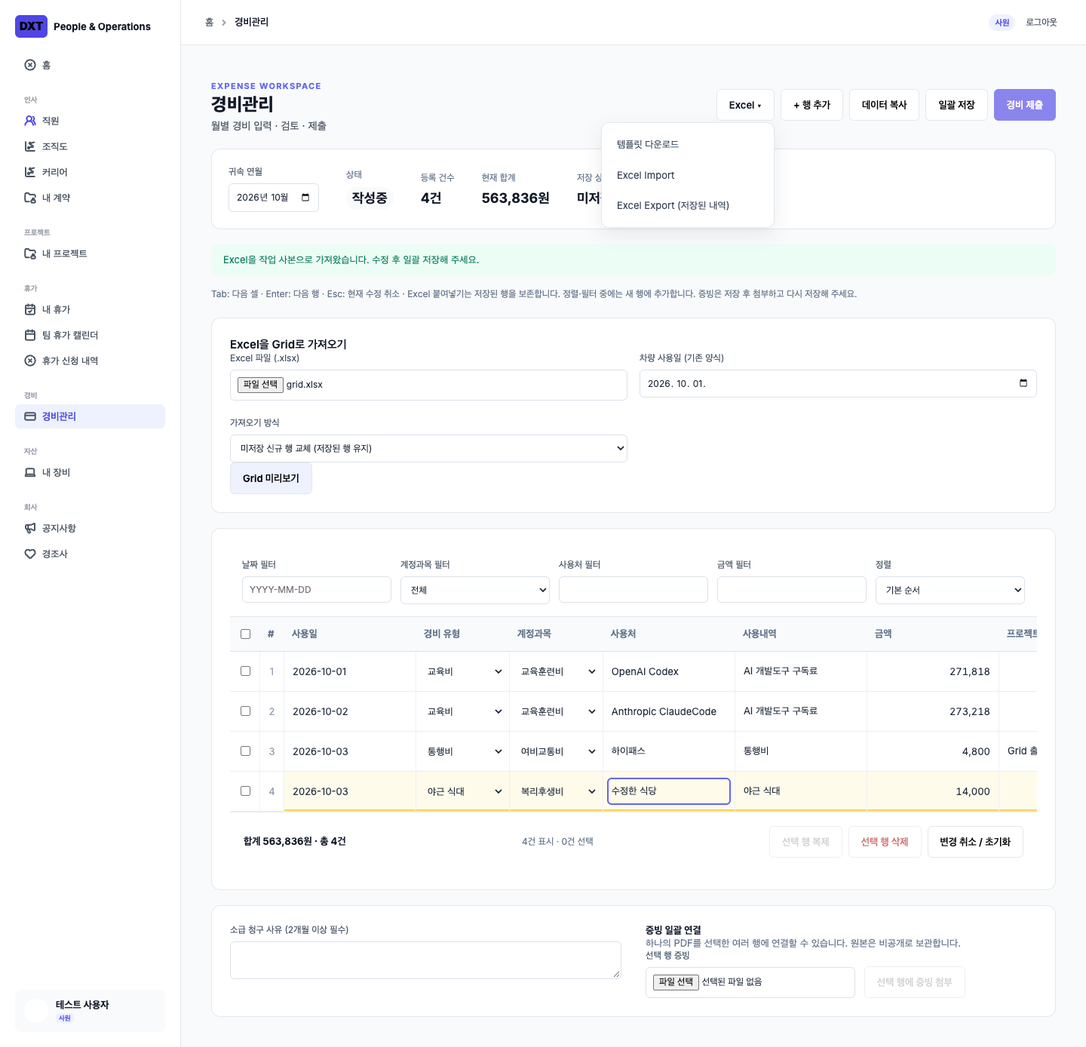
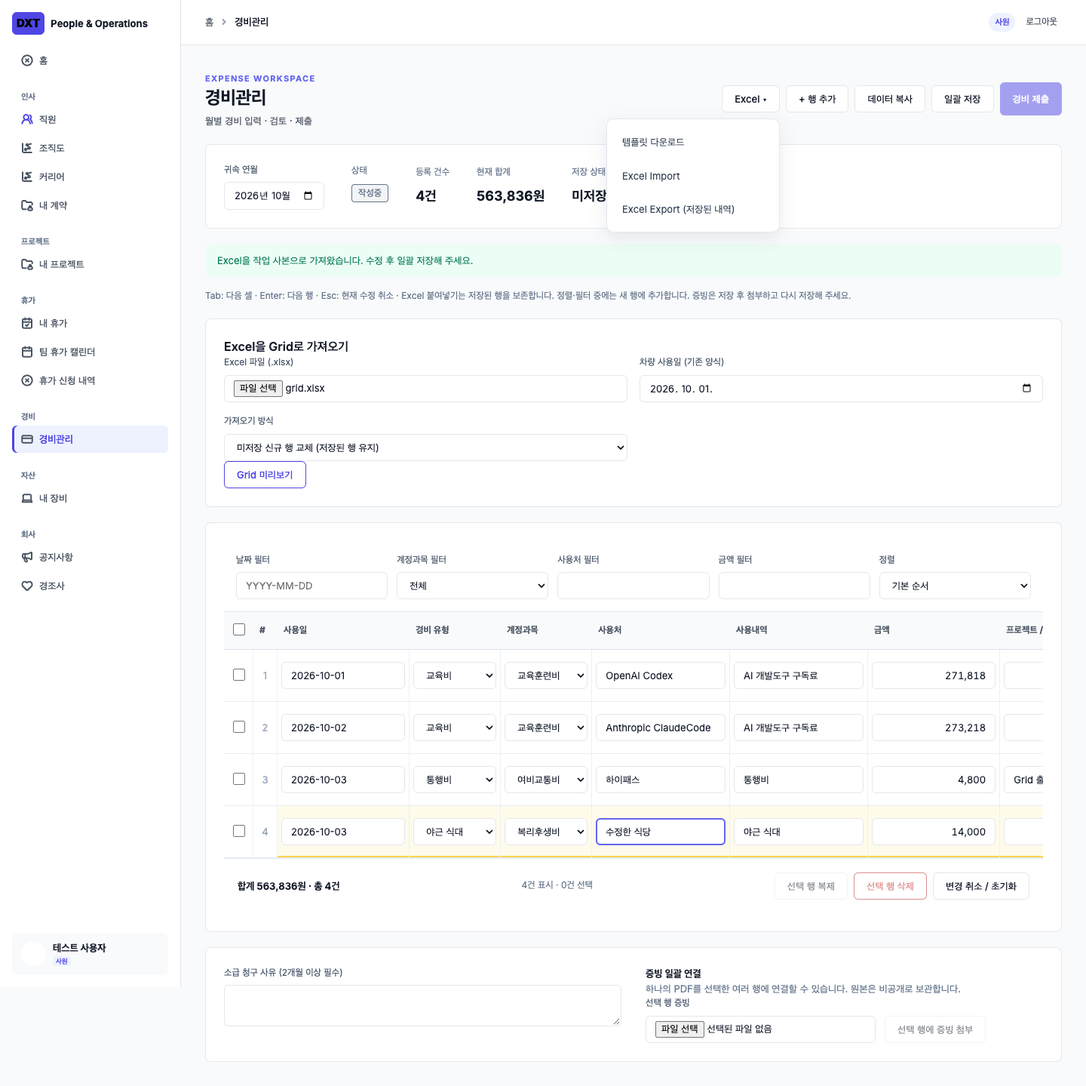
Restore submitted expense editing until payment lock

diff --git a/src/components/expenses/grid.tsx b/src/components/expenses/grid.tsx
@@ -1,4 +1,5 @@
 'use client';
+import { StatusTag } from '@/components/ui/primitives';
 import { useRouter } from 'next/navigation';
 import { memo, useCallback, useEffect, useMemo, useRef, useState } from 'react';
 import { saveExpenseGrid, previewExpenseGrid, uploadGridReceipt, submitExpenseGrid } from '@/app/actions/expenses';
@@ -45,11 +46,12 @@ export function ExpenseGrid({month,initialClaim,initialItems,initialAttachments,
  const errors=[...problems.values()].flat().filter(p=>p.severity==='ERROR');
  const accept=(d:{claim:Claim;items:ItemInput[];attachments:Attachment[]})=>{const order=new Map(rows.map((r,n)=>[r.id,n]));const saved=d.items.map(cleanItem).sort((a,b)=>(order.get(a.id)??rows.length)-(order.get(b.id)??rows.length));setClaim(d.claim);setRows(saved);setBaseline(saved);setAttachments(d.attachments);setReason(d.claim.late_reason);setSelected([]);};
  async function save(){setBusy(true);setError('');try{const result=await saveExpenseGrid(JSON.stringify({claimId:claim?.id||null,month,version:claim?.version||0,items:rows,deleted:baseline.filter(r=>!rows.some(x=>x.id===r.id)).map(({id,version})=>({id,version})),reason}));if('detail'in result&&result.detail){accept(result.detail);setMessage('저장 완료');}else setError(('error'in result?result.error:undefined)||'저장하지 못했습니다.');}finally{setBusy(false);}}
- async function submit(){setBusy(true);setError('');try{const result=await submitExpenseGrid(claim!.id,claim!.version,reason);if('detail'in result&&result.detail){accept(result.detail);setMessage('제출 완료 · 읽기 전용');setConfirmSubmit(false);}else setError(('error'in result?result.error:undefined)||'제출하지 못했습니다.');}finally{setBusy(false);}}
+ async function submit(){setBusy(true);setError('');try{const result=await submitExpenseGrid(claim!.id,claim!.version,reason);if('detail'in result&&result.detail){accept(result.detail);setMessage('제출 완료 · 지급/잠금 전까지 수정 가능');setConfirmSubmit(false);}else setError(('error'in result?result.error:undefined)||'제출하지 못했습니다.');}finally{setBusy(false);}}
  async function upload(form:HTMLFormElement,ids:string[]){if(!claim)return;setBusy(true);setError('');try{const result=await uploadGridReceipt(claim.id,new FormData(form));if('id'in result&&result.id){setRows(prev=>prev.map(r=>ids.includes(r.id)?{...r,attachment_id:result.id}:r));setAttachments(prev=>[...prev,{id:result.id,claim_id:claim.id,filename:result.filename,mime_type:'',byte_size:0,ready:true,storage_path:''}]);setMessage('증빙을 연결했습니다. 일괄 저장해 주세요.');}else setError(('error'in result?result.error:undefined)||'업로드 실패');}finally{setBusy(false);}}
  return <div className="expense-workspace">
- <header className="page-heading heading-row"><div><p className="grid-eyebrow">EXPENSE WORKSPACE{employeeName?` · ${employeeName}`:''}</p><h1>{admin?'경비 검토':'경비관리'}</h1><p>월별 경비 입력 · 검토 · 제출</p></div><div className="grid-actions"><details><summary className="button">Excel ▾</summary><div className="grid-menu"><a href={`/api/expenses/template?month=${month}`}>템플릿 다운로드</a>{!readonly&&<button onClick={()=>setImportOpen(v=>!v)}>Excel Import</button>}<a href={claim?`/api/expenses/export?claim=${claim.id}${admin?'&admin=1':''}`:undefined} aria-disabled={!claim}>Excel Export (저장된 내역)</a></div></details>{!readonly&&<button className="button" disabled={busy||rows.length>=500} onClick={()=>setRows(prev=>[...prev,blankRow(month,crypto.randomUUID())])}>+ 행 추가</button>}<button className="button" onClick={async()=>{try{await navigator.clipboard.writeText(rows.filter(r=>!selected.length||selected.includes(r.id)).map(r=>GRID_COLUMNS.map(k=>String(k==='expense_type'?PURPOSES[r.expense_type]:r[k]||'').replace(/[\t\r\n]/g,' ')).join('\t')).join('\n'));setMessage('선택한 데이터를 복사했습니다.');}catch{setError('브라우저의 클립보드 권한을 확인해 주세요.');}}}>데이터 복사</button>{!readonly&&<><button className="button" disabled={busy||!dirty||errors.length>0} onClick={save}>{busy?'처리 중…':'일괄 저장'}</button><button className="button primary" disabled={busy||dirty||!claim||!rows.length||errors.length>0} onClick={()=>setConfirmSubmit(true)}>경비 제출</button></>}</div></header>
- <section className="surface grid-overview"><label>귀속 연월<input aria-label="귀속 연월" type="month" value={month} onChange={e=>{if(!dirty||window.confirm('미저장 변경을 버리고 귀속월을 변경할까요?'))router.push(`${admin?'/admin':''}/expenses?month=${e.target.value}`);}}/></label><div><span>상태</span><strong className="expense-badge">{claim?STATUS[claim.status]:'작성 중'}{readonly?' · 읽기 전용':''}</strong></div><div><span>등록 건수</span><strong>{rows.length}건</strong></div><div><span>현재 합계</span><strong>{money(total)}원</strong></div><div><span>저장 상태</span><strong>{busy?'저장 중':dirty?'미저장 변경 있음':'저장 완료'}</strong></div></section>
+ <header className="page-heading heading-row"><div><p className="grid-eyebrow">EXPENSE WORKSPACE{employeeName?` · ${employeeName}`:''}</p><h1>{admin?'경비 검토':'경비관리'}</h1><p>월별 경비 입력 · 검토 · 제출</p></div><div className="grid-actions"><details><summary className="button">Excel ▾</summary><div className="grid-menu"><a href={`/api/expenses/template?month=${month}`}>템플릿 다운로드</a>{!readonly&&<button onClick={()=>setImportOpen(v=>!v)}>Excel Import</button>}<a href={claim?`/api/expenses/export?claim=${claim.id}${admin?'&admin=1':''}`:undefined} aria-disabled={!claim}>Excel Export (저장된 내역)</a></div></details>{!readonly&&<button className="button" disabled={busy||rows.length>=500} onClick={()=>setRows(prev=>[...prev,blankRow(month,crypto.randomUUID())])}>+ 행 추가</button>}<button className="button" onClick={async()=>{try{await navigator.clipboard.writeText(rows.filter(r=>!selected.length||selected.includes(r.id)).map(r=>GRID_COLUMNS.map(k=>String(k==='expense_type'?PURPOSES[r.expense_type]:r[k]||'').replace(/[\t\r\n]/g,' ')).join('\t')).join('\n'));setMessage('선택한 데이터를 복사했습니다.');}catch{setError('브라우저의 클립보드 권한을 확인해 주세요.');}}}>데이터 복사</button>{!readonly&&<><button className="button" disabled={busy||!dirty||errors.length>0} onClick={save}>{busy?'처리 중…':'일괄 저장'}</button>{claim?.status!=='SUBMITTED'&&<button className="button primary" disabled={busy||dirty||!claim||!rows.length||errors.length>0} onClick={()=>setConfirmSubmit(true)}>경비 제출</button>}</>}</div></header>
+ <section className="surface grid-overview"><label>귀속 연월<input aria-label="귀속 연월" type="month" value={month} onChange={e=>{if(!dirty||window.confirm('미저장 변경을 버리고 귀속월을 변경할까요?'))router.push(`${admin?'/admin':''}/expenses?month=${e.target.value}`);}}/></label><div><span>상태</span><StatusTag status={claim?.status}>{claim?STATUS[claim.status]:'작성 중'}{readonly?' · 읽기 전용':''}</StatusTag></div><div><span>등록 건수</span><strong>{rows.length}건</strong></div><div><span>현재 합계</span><strong>{money(total)}원</strong></div><div><span>저장 상태</span><strong>{busy?'저장 중':dirty?'미저장 변경 있음':'저장 완료'}</strong></div></section>
+ {claim?.status==='SUBMITTED'&&!readonly&&<p className="grid-help">제출한 경비입니다. 지급 예정일 {claim.payment_date?.slice(0,10)||'15일'}까지 수정할 수 있으며, 지급 처리·잠금 이후에는 수정할 수 없습니다. 변경 후 일괄 저장하면 제출 내역에 반영됩니다. 새 행도 증빙을 첨부한 뒤 저장해 주세요.</p>}
  {message&&<p className="success-banner" role="status">{message}</p>}{error&&<p role="alert" className="form-error">{error}</p>}
  {!readonly&&<p className="grid-help">Tab: 다음 셀 · Enter: 다음 행 · Esc: 현재 수정 취소 · Excel 붙여넣기는 저장된 행을 보존합니다. 정렬·필터 중에는 새 행에 추가합니다. 증빙은 저장 후 첨부하고 다시 저장해 주세요.</p>}
  {importOpen&&!readonly&&<form className="surface grid-import-panel" onSubmit={async e=>{e.preventDefault();const form=new FormData(e.currentTarget);setBusy(true);setError('');try{const result=await previewExpenseGrid(form);if(result.preview){setImportProblems(result.preview.problems.filter(p=>p.code==='SCHEMA'||p.code==='LEGACY_SUMMARY_IGNORED'));if(result.preview.problems.some(p=>p.code==='SCHEMA'&&p.severity==='ERROR')){setError('Excel 구조 오류를 수정한 뒤 다시 가져와 주세요.');return;}const next=importRows(rows,result.preview.items,form.get('mode')==='replace'?'replace':'append');if(next.length>500)throw new Error('최대 500행까지 입력할 수 있습니다.');setRows(next);setMessage('Excel을 작업 사본으로 가져왔습니다. 수정 후 일괄 저장해 주세요.');}else setError(('error'in result?result.error:undefined)||'가져오기 실패');}catch(err){setError((err as Error).message);}finally{setBusy(false);}}}><h2>Excel을 Grid로 가져오기</h2><input type="hidden" name="month" value={month}/><div className="field-grid"><label>Excel 파일 (.xlsx)<input name="workbook" type="file" accept=".xlsx" required/></label><label>차량 사용일 (기존 양식)<input name="vehicle_date" type="date" defaultValue={month+'-01'}/></label><label>가져오기 방식<select name="mode"><option value="append">기존 행에 추가</option><option value="replace">미저장 신규 행 교체 (저장된 행 유지)</option></select></label></div><button className="button" disabled={busy}>Grid 미리보기</button>{importProblems.map((p,i)=><p key={i} className={p.severity==='ERROR'?'form-error':'expense-warning'}>{p.origin} · {p.message}</p>)}</form>}
@@ -61,6 +63,6 @@ export function ExpenseGrid({month,initialClaim,initialItems,initialAttachments,
  {['FUEL','TOLL'].includes(detail.expense_type)&&<section className="expense-vehicle"><h3>차량 이동 상세</h3><div className="field-grid">{(['project_or_trip_name','origin','destination','one_way_amount','trip_count'] as const).map((key,i)=><label key={key}>{['프로젝트 / 출장명','출발지','도착지','편도 금액 (원)','횟수'][i]}<input type={i>2?'number':'text'} value={detail.vehicle?.[key]||''} onChange={e=>{const v={project_or_trip_name:detail.trip_context,origin:'',destination:'',one_way_amount:0,trip_count:1,...detail.vehicle,[key]:i>2?Number(e.target.value):e.target.value};onChange(detail.id,{vehicle:v,amount:v.one_way_amount*v.trip_count,legacy_summary:false,trip_context:v.project_or_trip_name});}}/></label>)}</div><strong>계산 금액 {money(detail.amount)}원</strong><p>편도금액 × 횟수 · 서버에서 다시 계산합니다.</p></section>}
  {detail.expense_type==='DINING'&&<section><h3>회식 참석자 / 월 한도 사용액</h3>{employees.map(e=>{const attendee=detail.attendees.find(a=>a.employee_id===e.id);return <div key={e.id} className="attendee-row"><label><input type="checkbox" checked={!!attendee} onChange={event=>onChange(detail.id,{attendees:event.target.checked?[...detail.attendees,{employee_id:e.id,allocated_amount:0}]:detail.attendees.filter(a=>a.employee_id!==e.id)})}/>{e.name} · {e.company_email}</label>{attendee&&<input aria-label={`${e.name} 한도 사용액`} type="number" min="1" max="30000" value={attendee.allocated_amount} onChange={event=>onChange(detail.id,{attendees:detail.attendees.map(a=>a.employee_id===e.id?{...a,allocated_amount:Number(event.target.value)}:a)})}/>}</div>;})}</section>}
  <label>비고<textarea value={detail.notes} maxLength={2000} onChange={e=>onChange(detail.id,{notes:e.target.value})}/></label></fieldset><div>{detail.attachment_id&&<a href={`/api/expenses/receipts/${detail.attachment_id}`}>{attachments.find(a=>a.id===detail.attachment_id)?.filename||'증빙'} 다운로드</a>}{!readonly&&<form onSubmit={e=>{e.preventDefault();void upload(e.currentTarget,[detail.id]);}}><label>영수증 / 증빙<input type="file" name="receipt" accept="application/pdf,image/png,image/jpeg" required disabled={!claim||busy}/></label><button className="button" disabled={!claim||busy}>이 행에 증빙 첨부</button></form>}</div></aside>}
- {confirmSubmit&&<section role="region" aria-label="경비 제출 확인" className="surface grid-confirm"><h2>월 경비를 제출할까요?</h2><p>{rows.length}건 · {money(total)}원. 제출 후에는 수정할 수 없습니다.</p>{[...claimProblems(month,reason),...[...problems.values()].flat()].map((p,i)=><p className="expense-warning" key={i}>{p.message}</p>)}<div className="grid-actions"><button className="button" disabled={busy} onClick={()=>setConfirmSubmit(false)}>돌아가기</button><button className="button primary" disabled={busy} onClick={submit}>확인 후 제출</button></div></section>}
+ {confirmSubmit&&<section role="region" aria-label="경비 제출 확인" className="surface grid-confirm"><h2>월 경비를 제출할까요?</h2><p>{rows.length}건 · {money(total)}원. 제출 후에도 지급일(15일)까지 수정할 수 있습니다. 지급 처리·잠금 또는 지급 기간 종료 후에는 읽기 전용입니다.</p>{[...claimProblems(month,reason),...[...problems.values()].flat()].map((p,i)=><p className="expense-warning" key={i}>{p.message}</p>)}<div className="grid-actions"><button className="button" disabled={busy} onClick={()=>setConfirmSubmit(false)}>돌아가기</button><button className="button primary" disabled={busy} onClick={submit}>확인 후 제출</button></div></section>}
  </div>;
 }

diff --git a/src/components/expenses/screens.tsx b/src/components/expenses/screens.tsx
@@ -1,3 +1,4 @@
+import { StatusTag } from '@/components/ui/primitives';
 import { ExpenseGrid } from './grid';
 import Link from 'next/link';
 import { notFound } from 'next/navigation';
@@ -8,8 +9,8 @@ import type { SearchParams } from '@/lib/employees/data';
 import { ClaimAction, ExpenseForm, ImportForm } from './forms';
 const money=(v:number)=>`₩${v.toLocaleString('ko-KR')}`;
 function Policy(){return <aside className="surface expense-policy"><h2>경비 등록 안내</h2><dl><dt>야근식대</dt><dd>10,000원 초과 시 확인 필요</dd><dt>회식비</dt><dd>월 3만원/인, 참석자 필수</dd><dt>택시비</dt><dd>대표 승인 하에 가능 (회사 정책)</dd><dt>증빙</dt><dd>영수증/PDF 필수</dd><dt>마감</dt><dd>다음 달 첫째 주 주말</dd></dl></aside>;}
-function LockPolicy(){return <div className="expense-info"><strong>지급일: 매월 15일</strong><p>제출된 경비는 읽기 전용입니다. 지급일과 지급·잠금 처리는 기존 기준을 따릅니다. 별도 승인/반려 기능은 운영하지 않습니다.</p></div>;}
-function Badge({claim}:{claim:Claim}){return <span className={`expense-badge ${claim.status==='DRAFT'?'':'success'}`}>{claim.status==='SUBMITTED'&&claim.payment_date&&today()>claim.payment_date?'제출완료 · 잠금':STATUS[claim.status]}</span>;}
+function LockPolicy(){return <div className="expense-info"><strong>지급일: 매월 15일</strong><p>제출 후에도 지급일(15일)까지 수정할 수 있습니다. 지급 처리·잠금 또는 지급 기간 종료 후에는 읽기 전용입니다. 별도 승인/반려 기능은 운영하지 않습니다.</p></div>;}
+function Badge({claim}:{claim:Claim}){return <StatusTag status={claim.status}>{claim.status==='SUBMITTED'&&claim.payment_date&&today()>claim.payment_date?'제출완료 · 잠금':STATUS[claim.status]}</StatusTag>;}
 export async function ExpenseList({query,admin=false}:{query:SearchParams;admin?:boolean}) {
  const options=await expenseOptions();const month=typeof query.month==='string'&&/^\d{4}-(0[1-9]|1[0-2])$/.test(query.month)?query.month:today().slice(0,7);
  if(!admin){const c=options.selfId?(await expenseRows<Claim>('expense_claim',CLAIM_COLUMNS,{employee_id:options.selfId,usage_month:month+'-01'}))[0]:undefined;const detail=c?await expenseDetail(c.id):null;return <ExpenseGrid accounts={options.accounts} key={month} month={month} initialClaim={detail?.claim} initialItems={detail?.items||[]} initialAttachments={detail?.attachments||[]} employees={options.employees.filter(e=>e.employment_status==='ACTIVE')} projects={options.projects}/>;}
@@ -36,6 +37,6 @@ export async function ExpenseDetail({id,query,admin=false}:{id:string;query:Sear
  {admin&&<ExpenseGrid accounts={options.accounts} month={claim.usage_month.slice(0,7)} initialClaim={claim} initialItems={items} initialAttachments={attachments} employees={options.employees} projects={options.projects} admin employeeName={person?.name}/>}
  {problems.map((p,n)=><div key={n} className={p.severity==='ERROR'?'form-error':'expense-warning'}><strong>{p.severity==='ERROR'?'Error':'Warning'}</strong><p>{p.message}</p></div>)}
  {items.map(i=><section className="surface expense-item-card" key={i.id}><div className="heading-row"><div><h2>{PURPOSES[i.expense_type]} · {i.merchant}</h2><p>{i.usage_date} · {i.description}</p></div><strong>{money(i.amount)}</strong></div><p>{i.payment_method==='PERSONAL_CARD'?'개인카드':'현금'} · {i.evidence_type} {admin&&`· ${i.account_category}`}</p>{i.trip_context&&<p>프로젝트/출장: {i.trip_context}</p>}{i.vehicle&&<p>{i.vehicle.origin} → {i.vehicle.destination} · {money(i.vehicle.one_way_amount)} × {i.vehicle.trip_count}회 = {money(i.amount)}</p>}{i.attendees.length>0&&<p>참석자: {i.attendees.map(a=>`${options.employees.find(e=>e.id===a.employee_id)?.name||a.employee_id} (${money(a.allocated_amount)})`).join(', ')}</p>}{i.notes&&<p className="preserve-lines">{i.notes}</p>}{i.import_filename&&<p className="muted">{i.import_filename} · {i.import_origin}</p>}<div className="heading-row"><a href={`/api/expenses/receipts/${i.attachment_id}`}>{attachments.find(a=>a.id===i.attachment_id)?.filename||'증빙'} 다운로드</a>{!admin&&editable(claim)&&<Link className="button" href={`/expenses/items/${i.id}/edit?claim=${claim.id}`}>수정</Link>}</div></section>)}
- <section className="surface expense-item-card"><h2>제출 / 지급 내역</h2><p>제출일: {claim.submitted_at?localDate(claim.submitted_at):'미제출'} · 지급 예정일: {claim.payment_date||'제출 시 결정'} · 잠금일: {claim.locked_at?localDate(claim.locked_at):'—'}</p>{claim.late_reason&&<p>소급 사유: {claim.late_reason}</p>}{!admin&&editable(claim)&&items.length>0&&<ClaimAction claim={claim} action="SUBMIT"/>}{admin&&claim.status==='SUBMITTED'&&<ClaimAction claim={claim} action="LOCK"/>}{admin&&['SUBMITTED','LOCKED'].includes(claim.status)&&<ClaimAction claim={claim} action="PAY"/>}{!editable(claim)&&<p className="expense-info">{claim.status==='SUBMITTED'&&!claim.locked_at?'제출된 경비와 증빙은 읽기 전용입니다.':'지급 기간이 잠겼습니다. 경비와 증빙은 읽기 전용입니다.'}</p>}</section><LockPolicy/></>;
+ <section className="surface expense-item-card"><h2>제출 / 지급 내역</h2><p>제출일: {claim.submitted_at?localDate(claim.submitted_at):'미제출'} · 지급 예정일: {claim.payment_date||'제출 시 결정'} · 잠금일: {claim.locked_at?localDate(claim.locked_at):'—'}</p>{claim.late_reason&&<p>소급 사유: {claim.late_reason}</p>}{!admin&&editable(claim)&&items.length>0&&<ClaimAction claim={claim} action="SUBMIT"/>}{admin&&claim.status==='SUBMITTED'&&<ClaimAction claim={claim} action="LOCK"/>}{admin&&['SUBMITTED','LOCKED'].includes(claim.status)&&<ClaimAction claim={claim} action="PAY"/>}{!editable(claim)&&<p className="expense-info">{claim.status==='SUBMITTED'&&!claim.locked_at?'지급 기간이 종료되었습니다. 경비와 증빙은 읽기 전용입니다.':'지급 기간이 잠겼습니다. 경비와 증빙은 읽기 전용입니다.'}</p>}</section><LockPolicy/></>;
 }
 export function ExpenseImport(){return <><div className="page-heading heading-row"><div><h1>Excel 업로드</h1><p>공식 경비 템플릿을 업로드하고 등록 전 검증 결과를 확인합니다.</p></div><a className="button primary" download href="/api/expenses/template">템플릿 다운로드</a></div><ImportForm/></>;}

diff --git a/tests/expense-grid.test.ts b/tests/expense-grid.test.ts
@@ -8,7 +8,7 @@ import {claimId,otherClaimId,itemId,otherItemId,receiptId,otherReceiptId,current
 import {blankRow,duplicateRow,importRows,pasteRows,gridProblems} from '../src/lib/expenses/grid';
 import type {ItemInput} from '../src/lib/expenses/types';
 const migration=readFileSync('supabase/migrations/20261120124228_expense_grid_workspace.sql','utf8');
-async function database(){const db=await contractsDatabase();await db.exec(migration);return db;}
+async function database(){const db=await contractsDatabase();await db.exec(migration);await db.exec(readFileSync('supabase/migrations/20261120135814_restore_expense_payment_edit_window.sql','utf8'));return db;}
 const row=expenseValues as ItemInput;
 const save=(db:Awaited<ReturnType<typeof database>>,items:unknown[],deleted:unknown[]=[],version=1,claim=claimId,user='employee')=>asUser(db,user,tx=>tx.query('select save_expense_grid($1,$2,$3,$4,$5,$6)',[claim,currentMonth+'-01',version,JSON.stringify(items),JSON.stringify(deleted),'']));
 test('grid paste preserves persisted rows, validates malformed data, duplicates/imports/reset remain local',()=>{
@@ -30,8 +30,8 @@ test('grid snapshot atomically creates/updates/deletes, rejects stale replay and
  await save(db,[{...fresh,version:1,attachment_id:receiptId}],[{id:itemId,version:2}],2);
  assert.equal((await db.query('select * from expense_item where claim_id=$1',[claimId])).rows.length,1);
  await asUser(db,'employee',tx=>tx.query("select submit_expense_claim($1,3,'')",[claimId]));
- await assert.rejects(save(db,[{...fresh,version:2,attachment_id:receiptId}],[],4));
- await assert.rejects(asUser(db,'employee',tx=>tx.query("select save_expense_items($1,$2,'')",[claimId,JSON.stringify([{...fresh,version:2,attachment_id:receiptId}])])));
+ await save(db,[{...fresh,version:2,attachment_id:receiptId}],[],4);
+ await asUser(db,'employee',tx=>tx.query("select save_expense_items($1,$2,'')",[claimId,JSON.stringify([{...fresh,version:3,attachment_id:receiptId}])]));
  }finally{await db.close();}
 });
 test('grid rejects cross-user claim/item/deletion/receipt, ownership and unknown payload; managers cannot author for others',async()=>{
@@ -62,10 +62,10 @@ test('dining snapshot redistribution releases old allocation before validating a
  assert.equal(Number((await db.query<{sum:string}>('select sum(allocated_amount) from expense_attendee')).rows[0].sum),30000);
  }finally{await db.close();}
 });
-test('grid migration preserves private receipt RLS and denies every submitted/locked/paid write path',async()=>{
+test('grid migration preserves private receipt RLS and denies locked/paid write paths',async()=>{
  const db=await database();try{
  await asUser(db,'employee',async tx=>{assert.equal((await tx.query('select * from expense_attachment where id=$1',[otherReceiptId])).rows.length,0);assert.equal((await tx.query('select * from storage.objects where name=$1',[otherClaimId+'/'+otherReceiptId])).rows.length,0);});
- for(const status of ['SUBMITTED','LOCKED','PAID']){
+ for(const status of ['LOCKED','PAID']){
   await db.query('update expense_claim set status=$1 where id=$2',[status,claimId]);
   await assert.rejects(save(db,[row]));
   await assert.rejects(save(db,[],[{id:itemId,version:1}]));
@@ -73,4 +73,36 @@ test('grid migration preserves private receipt RLS and denies every submitted/lo
  }
  await assert.rejects(asUser(db,'leader',tx=>tx.query("select manage_expense_claim($1,1,'PAY')",[claimId])));
  }finally{await db.close();}
+});
+
+test('submitted Grid edits retain payment window, evidence, ownership and version protection',async()=>{
+ const db=await database();try{
+  await db.exec(`create or replace function public.expense_today() returns date language sql stable as $$select '${currentMonth}-15'::date$$`);
+  await db.query("update expense_claim set status='SUBMITTED',submitted_at=now(),payment_date=$1 where id=$2",[currentMonth+'-15',claimId]);
+  await save(db,[{...row,amount:11000}]);
+  await assert.rejects(save(db,[row])); // stale version still fails after submission
+  await assert.rejects(save(db,[{...row,version:2,attachment_id:''}],[],2));
+  await assert.rejects(save(db,[{...row,version:2,attachment_id:otherReceiptId}],[],2));
+  await assert.rejects(save(db,[{...row,version:2}],[],2,claimId,'leader'));
+  await asUser(db,'employee',tx=>tx.query("select save_expense_items($1,$2,'')",[claimId,JSON.stringify([{...row,version:2,amount:10000}])]));
+  await asUser(db,'employee',tx=>tx.query("select reserve_expense_attachment($1,'new.pdf','application/pdf',10)",[claimId]));
+  const state=(await db.query<{status:string;version:number}>('select status,version from expense_claim where id=$1',[claimId])).rows[0];
+  assert.equal(state.status,'SUBMITTED');
+  for(const lock of ["payment_date=public.expense_today()-1","payment_date=public.expense_today(),locked_at=now()","locked_at=null,status='LOCKED'","status='PAID'"]){
+   await db.exec(`update expense_claim set ${lock} where id='${claimId}'`);
+   await assert.rejects(save(db,[{...row,version:3}],[],state.version));
+   await assert.rejects(save(db,[],[{id:itemId,version:3}],state.version));
+   await assert.rejects(asUser(db,'employee',tx=>tx.query("select save_expense_items($1,$2,'')",[claimId,JSON.stringify([{...row,version:3}])])));
+   await assert.rejects(asUser(db,'employee',tx=>tx.query("select reserve_expense_attachment($1,'locked.pdf','application/pdf',10)",[claimId])));
+  }
+  assert.equal((await db.query<{amount:number}>('select amount from expense_item where id=$1',[itemId])).rows[0].amount,10000);
+ }finally{await db.close();}
+});
+
+test('application payment boundary includes Seoul payment day and denies explicit locks',async()=>{
+ const {editable}=await import('../src/lib/expenses/validation');
+ const claim={id:claimId,employee_id:'employee',usage_month:'2026-10-01',status:'SUBMITTED' as const,submitted_at:'2026-11-01',late_reason:'',locked_at:null,payment_date:'2026-11-15',version:1};
+ assert.equal(editable(claim,'2026-11-14'),true);assert.equal(editable(claim,'2026-11-15'),true);assert.equal(editable(claim,'2026-11-16'),false);
+ assert.equal(editable({...claim,locked_at:'2026-11-14'},'2026-11-14'),false);
+ for(const status of ['LOCKED','PAID'] as const)assert.equal(editable({...claim,status},'2026-11-14'),false);
 });

diff --git a/tests/e2e/expense-grid.spec.ts b/tests/e2e/expense-grid.spec.ts
@@ -5,7 +5,7 @@ import {today} from '../../src/lib/expenses/validation';
 import {templateWorkbook} from '../../src/lib/expenses/workbook';
 const d=new Date(today()+'T00:00:00Z');d.setUTCMonth(d.getUTCMonth()-1,1);const month=d.toISOString().slice(0,7);
 const pdf={name:'grid-receipts.pdf',mimeType:'application/pdf',buffer:Buffer.from('%PDF-1.4\nsynthetic test evidence\n%%EOF')};
-test('monthly grid paste, edit, duplicate, delete, reset, import, vehicle, evidence and read-only submission',async({page,context})=>{
+test('monthly grid paste, edit, duplicate, delete, reset, import, vehicle, evidence and post-submit edit window and payment lock',async({page,context})=>{
  await loginAs(context,'employee');await page.goto(`/expenses?month=${month}`);
  await expect(page.getByRole('heading',{name:'경비관리',exact:true})).toBeVisible();
  await page.getByRole('button',{name:'+ 행 추가',exact:true}).click();
@@ -28,8 +28,10 @@ test('monthly grid paste, edit, duplicate, delete, reset, import, vehicle, evide
  await page.getByRole('button',{name:'상세 닫기'}).click();await page.getByRole('button',{name:'일괄 저장',exact:true}).click();await expect(page.getByRole('status')).toHaveText('저장 완료');
  await page.getByLabel('표시된 행 전체 선택').check();await page.getByLabel('선택 행 증빙',{exact:true}).setInputFiles(pdf);await page.getByRole('button',{name:'선택 행에 증빙 첨부'}).click();await expect(page.getByRole('status')).toContainText('증빙을 연결');await page.getByRole('button',{name:'일괄 저장',exact:true}).click();await expect(page.getByRole('status')).toHaveText('저장 완료');
  const exportUrl=await page.getByRole('link',{name:'Excel Export (저장된 내역)'}).getAttribute('href');const exported=await context.request.get(exportUrl!);expect(exported.status()).toBe(200);const xlsx=new ExcelJS.Workbook();await xlsx.xlsx.load(await exported.body() as never);expect(xlsx.getWorksheet('주유비,통행비')!.getCell('G2').value).toBe(3);
- await page.getByRole('button',{name:'경비 제출',exact:true}).click();await page.getByRole('button',{name:'확인 후 제출'}).click();await expect(page.getByRole('status')).toHaveText('제출 완료 · 읽기 전용');await expect(page.getByLabel('1행 사용처',{exact:true})).toBeDisabled();await page.screenshot({path:'docs/screenshots/issue23-submitted-grid.png',fullPage:true});
+ await page.getByRole('button',{name:'경비 제출',exact:true}).click();await page.getByRole('button',{name:'확인 후 제출'}).click();await expect(page.getByRole('status')).toHaveText('제출 완료 · 지급/잠금 전까지 수정 가능');await expect(page.getByLabel('1행 사용처',{exact:true})).toBeEnabled();await expect(page.getByRole('button',{name:'경비 제출',exact:true})).toHaveCount(0);await page.getByLabel('1행 사용처',{exact:true}).fill('제출 후 수정 식당');await page.getByRole('button',{name:'일괄 저장',exact:true}).click();await expect(page.getByRole('status')).toHaveText('저장 완료');await page.reload();await expect(page.getByLabel('1행 사용처',{exact:true})).toHaveValue('제출 후 수정 식당');await page.screenshot({path:'docs/screenshots/issue23-submitted-grid.png',fullPage:true});
+ const stale=await context.newPage();await stale.goto(`/expenses?month=${month}`);await stale.getByLabel('1행 사용처',{exact:true}).fill('잠금 후 저장 시도');
  const claim=new URL(exportUrl!,'http://localhost').searchParams.get('claim');await loginAs(context,'expense');await page.goto(`/admin/expenses/${claim}`);await expect(page.getByLabel('1행 사용처',{exact:true})).toBeDisabled();await page.screenshot({path:'docs/screenshots/issue23-admin-grid.png',fullPage:true});
+ await page.getByRole('button',{name:'지급 기간 잠금',exact:true}).click();await expect(page.getByRole('status')).toContainText('저장했습니다.');await loginAs(context,'employee');await stale.getByRole('button',{name:'일괄 저장',exact:true}).click();await expect(stale.locator('.form-error[role=alert]')).toContainText('수정 가능한 본인 경비가 아닙니다.');await stale.close();await page.goto(`/expenses?month=${month}`);await expect(page.getByLabel('1행 사용처',{exact:true})).toBeDisabled();await expect(page.getByRole('button',{name:'일괄 저장',exact:true})).toHaveCount(0);
 });
 test('grid stale tab and session-switched save cannot overwrite persisted data',async({page,context})=>{
  await loginAs(context,'employee');await page.goto('/expenses');const second=await context.newPage();await second.goto('/expenses');

diff --git a/src/app/actions/expenses.ts b/src/app/actions/expenses.ts
@@ -88,10 +88,11 @@ export async function saveExpenseGrid(payload:string) {
   if(payload.length>1500000)throw new Error('입력 데이터가 너무 큽니다.');
   const value=JSON.parse(payload);
   if(!value||Object.keys(value).some(k=>!['claimId','month','version','items','deleted','reason'].includes(k))||!/^\d{4}-(0[1-9]|1[0-2])$/.test(value.month)||!Number.isInteger(value.version)||value.version<0||typeof value.reason!=='string'||value.reason.length>2000||!Array.isArray(value.items)||value.items.length>500||!Array.isArray(value.deleted)||value.deleted.length>500)throw new Error('일괄 저장 형식을 확인해 주세요.');
-  if(value.claimId)await ownClaim(value.claimId);
+  const claim=value.claimId?await ownClaim(value.claimId):null;
   const {gridProblems}=await import('@/lib/expenses/grid');
   const keys=['id','version','usage_date','expense_type','merchant','description','account_category','amount','evidence_type','payment_method','project_id','trip_context','notes','attachment_id','attendees','vehicle','legacy_summary','import_filename','import_origin'];
   for(const row of value.items){if(!row||Object.keys(row).some(k=>!keys.includes(k))||!isUuid(row.id)||!Number.isInteger(row.version)||row.version<0||!Array.isArray(row.attendees)||['usage_date','merchant','description','account_category','notes','trip_context'].some(k=>typeof row[k]!=='string'))throw new Error('행 입력 형식을 확인해 주세요.');}
+  if(claim?.status==='SUBMITTED'&&value.items.some((row:ItemInput)=>!isUuid(row.attachment_id)))throw new Error('제출된 경비는 모든 항목에 증빙이 필요합니다. 증빙을 연결한 뒤 저장해 주세요.');
   const errors=[...claimProblems(value.month,value.reason),...value.items.flatMap((r:ItemInput)=>gridProblems(r,value.items,value.month))].filter(p=>p.severity==='ERROR');
   if(errors.length)throw new Error(errors.map(p=>p.message).join(' '));
   const {data:id,error}=await(await employeeClient()).rpc('save_expense_grid',{p_claim:value.claimId||null,p_month:value.month+'-01',p_version:value.version,p_items:value.items,p_deleted:value.deleted,p_reason:value.reason});if(error)throw error;

diff --git a/src/lib/expenses/validation.ts b/src/lib/expenses/validation.ts
@@ -5,7 +5,7 @@ export function localDate(value:string) { return /^\d{4}-\d{2}-\d{2}$/.test(valu
 export function today() { return new Intl.DateTimeFormat('sv-SE',{timeZone:'Asia/Seoul'}).format(new Date()); }
 export function monthAge(month:string,now=today()) { return (Number(now.slice(0,4))-Number(month.slice(0,4)))*12+Number(now.slice(5,7))-Number(month.slice(5,7)); }
 export function deadline(month:string) { const d=new Date(`${month.slice(0,7)}-01T00:00:00Z`); d.setUTCMonth(d.getUTCMonth()+1); d.setUTCDate(1+(7-d.getUTCDay())%7); return d.toISOString().slice(0,10); }
-export function editable(c:Claim,now=today()) { return c.status==='DRAFT'&&!c.locked_at&&(!c.payment_date||now<=c.payment_date); }
+export function editable(c:Claim,now=today()) { return ['DRAFT','SUBMITTED'].includes(c.status)&&!c.locked_at&&(!c.payment_date||now<=c.payment_date); }
 export function itemProblems(item:ItemInput, existing:ItemInput[]=[], now=today()):Problem[] {
  const out:Problem[]=[]; const add=(severity:Problem['severity'],code:string,message:string)=>out.push({severity,code,message,origin:item.import_origin});
  if(!validDate(item.usage_date)||item.usage_date>now) add('ERROR','DATE','사용일을 올바르게 입력해 주세요. 미래 사용일은 등록할 수 없습니다.');

diff --git a/tests/e2e/mock-supabase.ts b/tests/e2e/mock-supabase.ts
@@ -16,6 +16,7 @@ import { PROJECT_COLUMNS, ASSIGNMENT_COLUMNS, CAREER_COLUMNS, EXTENSION_COLUMNS 
 async function main() {
 const db = await assetTransferDatabase();
 await db.exec(readFileSync('supabase/migrations/20261120124228_expense_grid_workspace.sql','utf8'));
+await db.exec(readFileSync('supabase/migrations/20261120135814_restore_expense_payment_edit_window.sql','utf8'));
 const files=new Map<string,Buffer>([[`${claimId}/${receiptId}`,Buffer.from('%PDF-1.4 own')],[`${otherClaimId}/${otherReceiptId}`,Buffer.from('%PDF-1.4 other')]]);
 files.set(`${offboardingId}/${documentId}`,Buffer.from(letter));
 const tables: Record<string,string[]> = {

diff --git a/docs/ISSUE_23_DELIVERY.md b/docs/ISSUE_23_DELIVERY.md
@@ -40,8 +40,9 @@ merge order. Existing permissions/capability functions, RLS and Storage policies
   account, numeric/type constraints and cumulative attendee limits are checked again.
 - Duplicate, overtime and overall dining overages remain warnings. Retroactive reasons,
   first-weekend deadline and payment-cycle calculations retain their existing semantics.
-- **Explicit Issue #23 lifecycle requirement supersedes the older Phase 5 edit window:**
-  SUBMITTED is now read-only immediately, as are LOCKED/PAID. `expense_editable` governs
+- **DXT payment/lock policy preserved (PR #24 review correction):**
+  SUBMITTED stays editable through payment_date (inclusive, Asia/Seoul). LOCKED/PAID,
+  locked_at or an elapsed payment period make it read-only. `expense_editable` governs
   legacy writers, receipt reservation/finalization and new bulk saves consistently.
   No approval, rejection or reopening workflow was added.
 - Audit events contain actor/action/claim reference only; no receipt contents are logged.
@@ -96,3 +97,26 @@ migration before the UI. Failed uploads can leave unused private attachment rese
 no automatic object deletion or cron was introduced. Working copies are memory-only and
 must be saved before leaving; browser unload and month changes warn about dirty state.
 No historic data migration, automatic Gmail, cron, Phase 4B or corporate-card workflow.
+
+## Review correction: existing payment/lock policy
+
+Rebased on main `521ea36` (merged DXT Design System). The existing Grid migration is
+unchanged. Apply `20261120135814_restore_expense_payment_edit_window.sql` after it:
+`expense_editable` again admits the owner in DRAFT or SUBMITTED, through payment_date
+inclusive in Asia/Seoul, unless locked_at is set. LOCKED/PAID always deny editing.
+All legacy writers, Grid saves and receipt reservations/finalization share this helper.
+The new trigger preserves mandatory evidence on submitted item edits; draft evidence
+remains optional. Server actions repeat ownership/editability and evidence checks.
+Payment scheduling, first submitted_at, claim state, optimistic versions and atomic
+Grid snapshots are preserved. No approval/reject/reopen workflow is introduced.
+
+The UI now explains the post-submit edit window, saves changes directly to the same
+submitted claim and uses DXT StatusTag for state. It does not offer a redundant submit
+button after submission. Admin review remains read-only with its existing lock/pay
+controls. Tests cover inclusive payment day, elapsed payment period, explicit locks,
+paid state, evidence and cross-user denial, plus a stale open editor after admin lock.
+
+A separate synthetic compatibility run applied PR #20's asset-transfer migration before
+both expense migrations: all 6 asset-transfer database tests passed. Their timestamps
+are ordered; no PR #20 merge or applied-migration edits are needed for this update.
+Hosted Supabase advisors/staging were not run; this task does not touch a hosted database.

diff --git a/docs/BUSINESS_RULES.md b/docs/BUSINESS_RULES.md
@@ -193,7 +193,8 @@ Categories:
 
 ## Expense lifecycle clarification — Issue #23
 
-The monthly Grid requirement explicitly makes SUBMITTED read-only, followed by LOCKED
-and PAID. This supersedes the older post-submission editing window above. Drafts may be
-saved before evidence is attached; submission still requires all evidence. Payment dates,
+The Grid preserves the existing post-submission edit window: SUBMITTED remains editable
+through its payment date (15th, Asia/Seoul), unless locked or paid earlier. LOCKED/PAID,
+locked_at, and an elapsed payment_date make it read-only. Drafts may be saved before
+evidence is attached; submission and subsequent edits require evidence. Payment dates,
 deadline, retroactive reasons, warning/allowance rules and no-approval policy are unchanged.

diff --git a/docs/PERMISSIONS.md b/docs/PERMISSIONS.md
@@ -189,4 +189,5 @@ not broaden contract body, signature or employee-history access.
 Expense Grid preserves owner-only authoring. EXPENSE_MANAGE allows review/export/lock/pay,
 never writing another employee's Grid. Bulk mutation repeats identity, claim/item ownership,
 version and DRAFT-state checks in PostgreSQL. Evidence may be absent while drafting but is
-required on submit. SUBMITTED is read-only per Issue #23, including legacy writer RPCs.
+required on submit. SUBMITTED retains the existing payment-date edit window, including legacy writer RPCs.
+LOCKED/PAID, locked_at and elapsed payment periods deny all employee writers.

diff --git a/docs/DATA_MODEL.md b/docs/DATA_MODEL.md
@@ -346,4 +346,4 @@ See `EMPLOYMENT_CONTRACT_DELIVERY.md` for lifecycle and recovery.
 pre-existing OTHER fallback). Draft item evidence may be absent; submission enforces a
 ready same-claim attachment. Full-snapshot bulk save validates claim/item versions and
 versioned deletions under a transaction lock. No persistent draft domain/table is added.
-SUBMITTED/LOCKED/PAID items are read-only. See `ISSUE_23_DELIVERY.md`.
+SUBMITTED items remain editable until the existing payment/lock cutoff; LOCKED/PAID are read-only. See `ISSUE_23_DELIVERY.md`.
